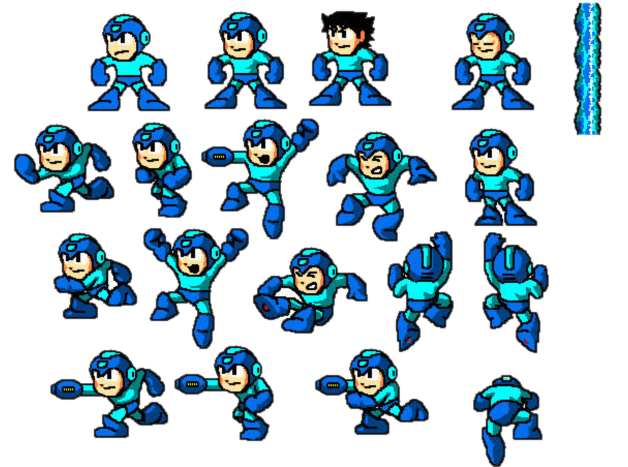
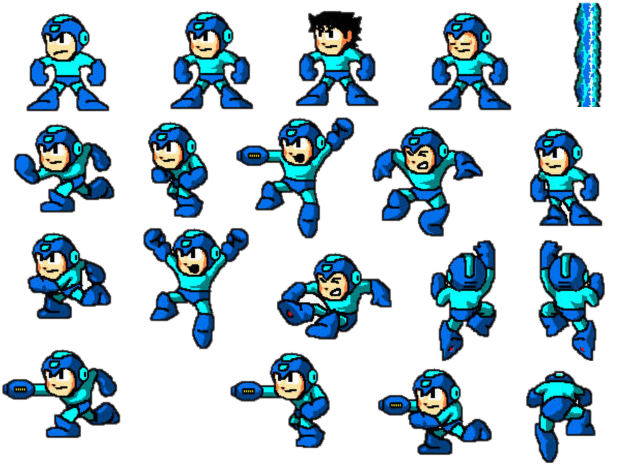
Versão aprimorada Grok Ajustando bug

diff --git a/Animation.html b/Animation.html
@@ -53,38 +53,40 @@
     
     <div class="controls">
         <h3>Controles</h3>
-        <p><span class="key">←</span> <span class="key">→</span> Mover | <span class="key">J</span> Pular | <span class="key">S</span> Atirar
+        <p><span class="key">←</span> <span class="key">→</span> Mover | <span class="key">J</span> Pular | <span class="key">S</span> Atirar</p>
     </div>
-    
     <script>
         const canvas = document.getElementById('gameCanvas');
         const ctx = canvas.getContext('2d');
-        
-        /* Definição dos estados do jogo*/
+
+        // Definição dos estados do jogo
         const VM_STANDBY = 0;
         const VM_WALK = 1;
         const VM_SHOOT = 2;
         const VM_JUMP = 3;
-        
-        /* Inicializações*/
+
+        // Inicializações
         let facingDirection = 'right';
         let action = VM_STANDBY;
         let actionTime = 0;
-        let screenPosition = 128;
+        let screenPosition = 0;
         let keyState = {};
         let isJumping = false;
         let gravity = 0.5;
         let jumpVelocity = -10;
         let currentJumpVelocity = 0;
-        let groundLevel = canvas.height - 160;
+        let groundLevel = canvas.height - 80;
         let personY = groundLevel;
-        let personHeight = 160;
+        let personHeight = 80;
         let lastFrameTime = performance.now();
         let deltaTime = 0;
-        
-        /* Sistema de projéteis */
+        let frameIndex = 0;
+        let frameTime = 0;
+        const frameDuration = 100; // Duração de cada frame em ms
+
+        // Sistema de projéteis
         const projectiles = [];
-        
+
         class Projectile {
             constructor(x, y, direction) {
                 this.x = x;
@@ -102,8 +104,6 @@
                 } else {
                     this.x -= this.speed * (dt / 16);
                 }
-                
-                // Desativar projéteis que saem da tela
                 if (this.x < 0 || this.x > canvas.width) {
                     this.active = false;
                 }
@@ -114,8 +114,6 @@
                 ctx.beginPath();
                 ctx.ellipse(this.x, this.y, this.width, this.height, 0, 0, Math.PI * 2);
                 ctx.fill();
-                
-                // Efeito de brilho
                 ctx.fillStyle = '#99ccff';
                 ctx.beginPath();
                 ctx.ellipse(this.x, this.y, this.width * 0.5, this.height * 0.5, 0, 0, Math.PI * 2);
@@ -123,36 +121,60 @@
             }
         }
 
-        /* Objeto para imagens*/
+        // Objeto para imagens
         const images = {
-            person_stopped_right: new Image(),
-            person_stopped_left: new Image(),
-            person_running_left: new Image(),
-            person_running_right: new Image(),
-            person_shoot_left: new Image(),
-            person_shoot_right: new Image(),
-            person_jump_left: new Image(),
-            person_jump_right: new Image(),
             floor: new Image(),
             ceiling: new Image(),
             pillar: new Image(),
-            forest: new Image()
+            forest: new Image(),
+            personSpriteSheet: new Image()
         };
 
-        /* Carregando imagens*/
-        images.person_stopped_right.src = 'images/stop_right.png';
-        images.person_stopped_left.src = 'images/stop_left.png';
-        images.person_running_left.src = 'images/walk_left.png';
-        images.person_running_right.src = 'images/walk_right.png';
-        images.person_shoot_left.src = 'images/shoot_mirror.png';
-        images.person_shoot_right.src = 'images/shoot.png';
-        images.person_jump_left.src = 'images/jump_mirror.png';
-        images.person_jump_right.src = 'images/jump.png';
+        // Configuração da spritesheet
+        const larguraDoFrame = 157;
+        const alturaDoFrame = 467 / 4;
+        const spriteFrames = {
+            standby: [0, 1, 2, 3],
+            walk: [4, 5, 6, 7],
+            shoot: [8, 9, 10, 11],
+            jump: [12, 13, 14, 15]
+        };
+
+        function getPersonSprite(frameIndex) {
+            const canvas = document.createElement('canvas');
+            const ctx = canvas.getContext('2d');
+            canvas.width = larguraDoFrame;
+            canvas.height = alturaDoFrame;
+
+            const numColunas = 4;
+            const linha = Math.floor(frameIndex / numColunas);
+            const coluna = frameIndex % numColunas;
+            const spriteX = coluna * larguraDoFrame;
+            const spriteY = linha * alturaDoFrame;
+
+            ctx.drawImage(
+                images.personSpriteSheet,
+                spriteX,
+                spriteY,
+                larguraDoFrame,
+                alturaDoFrame,
+                0,
+                0,
+                larguraDoFrame,
+                alturaDoFrame
+            );
+
+            return canvas;
+        }
+
+        // Carregando as imagens
+        images.personSpriteSheet.src = 'images/all.png';
         images.floor.src = 'images/chao.png';
         images.ceiling.src = 'images/teto.png';
         images.pillar.src = 'images/pilar.png';
         images.forest.src = 'images/floresta.png';
 
+        // Controles
         window.addEventListener('keydown', (e) => {
             keyState[e.key] = true;
         });
@@ -163,18 +185,11 @@
 
         function drawBackground() {
             const lFator = 32;
-
-            /* Desenhar floresta (ao fundo)*/
-            ctx.drawImage(images.forest, 0 - screenPosition * 0.5, 0, canvas.width+40, canvas.height);
-
-            /* Teto e chão*/
+            ctx.drawImage(images.forest, 0 - screenPosition * 0.5, 0, canvas.width + 40, canvas.height);
             for (let i = 0; i < 32; i++) {
                 ctx.drawImage(images.ceiling, (lFator * i) - screenPosition, -2, 32, 32);
-                ctx.drawImage(images.ceiling, (lFator * i + lFator) - screenPosition, -2, 32, 32);
                 ctx.drawImage(images.floor, (lFator * i) - screenPosition, 232, 32, 32);
             }
-
-            /* Desenhar pilares*/
             const pilarFator = 125;
             for (let i = 0; i < 10; i++) {
                 ctx.drawImage(images.pillar, (pilarFator * i) - screenPosition, 34, 21, 65);
@@ -184,63 +199,52 @@
         }
 
         function drawPerson() {
-            const personX = canvas.width / 2 - 78;
-            /* Desenha o personagem baseado nas ações atuais*/
+            const personX = canvas.width / 2 - 39;
+            let frames;
             switch (action) {
                 case VM_STANDBY:
-                    if (facingDirection === 'left') {
-                        ctx.drawImage(images.person_stopped_left, personX, personY, 78, 160);
-                    } else {
-                        ctx.drawImage(images.person_stopped_right, personX, personY, 78, 160);
-                    }
+                    frames = spriteFrames.standby;
                     break;
                 case VM_WALK:
-                    if (facingDirection === 'left') {
-                        ctx.drawImage(images.person_running_left, personX, personY, 78, 160);
-                    } else {
-                        ctx.drawImage(images.person_running_right, personX, personY, 78, 160);
-                    }
+                    frames = spriteFrames.walk;
                     break;
                 case VM_SHOOT:
-                    if (facingDirection === 'left') {
-                        ctx.drawImage(images.person_shoot_left, personX, personY, 78, 160);
-                    } else {
-                        ctx.drawImage(images.person_shoot_right, personX, personY, 78, 160);
-                    }
+                    frames = spriteFrames.shoot;
                     break;
                 case VM_JUMP:
-                    if (facingDirection === 'left') {
-                        ctx.drawImage(images.person_jump_left, personX, personY, 78, 160);
-                    } else {
-                        ctx.drawImage(images.person_jump_right, personX, personY, 78, 160);
-                    }
+                    frames = spriteFrames.jump;
                     break;
+            }
+            const currentFrame = frames[Math.floor(frameIndex) % frames.length];
+            const sprite = getPersonSprite(currentFrame);
+            if (facingDirection === 'left') {
+                ctx.scale(-1, 1);
+                ctx.drawImage(sprite, -personX - 78, personY, 78, 80);
+                ctx.scale(-1, 1);
+            } else {
+                ctx.drawImage(sprite, personX, personY, 78, 80);
             }
         }
 
         function drawStatusLabel() {
-            /* Desenha informações de status*/
             ctx.fillStyle = '#000000';
             ctx.fillText("Ação: " + (action === VM_STANDBY ? "Parado" :
                 action === VM_WALK ? "Andando" :
                 action === VM_SHOOT ? "Atirando" :
                 "Pulando"), 10, 64);
-            ctx.fillText("Tempo da ação: " + actionTime, 10, 80);
+            ctx.fillText("Tempo da ação: " + Math.round(actionTime), 10, 80);
             ctx.fillText("Posição da tela: " + Math.round(screenPosition), 10, 96);
-            ctx.fillText("s = atirar; j = pular; setas = movimentar ", 10, 112);
+            ctx.fillText("s = atirar; j = pular; setas = movimentar", 10, 112);
         }
 
         function drawAllSprites() {
             ctx.clearRect(0, 0, canvas.width, canvas.height);
             drawBackground();
-            
-            // Desenhar projéteis ativos
             projectiles.forEach(projectile => {
                 if (projectile.active) {
                     projectile.draw();
                 }
             });
-            
             drawPerson();
             drawStatusLabel();
         }
@@ -249,26 +253,16 @@
             const personX = canvas.width / 2;
             const personWidth = 78;
             const projectileY = personY + personHeight / 2;
-            
-            let projectileX;
-            if (facingDirection === 'right') {
-                projectileX = personX + personWidth / 2;
-            } else {
-                projectileX = personX - personWidth / 2;
-            }
-            
+            let projectileX = facingDirection === 'right' ? personX + personWidth / 2 : personX - personWidth / 2;
             projectiles.push(new Projectile(projectileX, projectileY, facingDirection));
         }
 
         function updateProjectiles(dt) {
-            // Atualizar posição dos projéteis
             projectiles.forEach(projectile => {
                 if (projectile.active) {
                     projectile.update(dt);
                 }
             });
-            
-            // Remover projéteis inativos
             for (let i = projectiles.length - 1; i >= 0; i--) {
                 if (!projectiles[i].active) {
                     projectiles.splice(i, 1);
@@ -280,14 +274,10 @@
             if (isJumping) {
                 personY += currentJumpVelocity * (dt / 16);
                 currentJumpVelocity += gravity * (dt / 16);
-                
-                // Verificar se o personagem chegou ao chão
                 if (personY >= groundLevel) {
                     personY = groundLevel;
                     isJumping = false;
                     currentJumpVelocity = 0;
-                    
-                    // Se estava pulando, voltar para o estado parado
                     if (action === VM_JUMP) {
                         action = VM_STANDBY;
                     }
@@ -296,23 +286,23 @@
         }
 
         function update(timestamp) {
-            // Calcular deltaTime para animações consistentes
             deltaTime = timestamp - lastFrameTime;
             lastFrameTime = timestamp;
-            
-            // Limitar deltaTime para evitar saltos grandes em caso de lag
             if (deltaTime > 100) deltaTime = 100;
-            
-            // Aplicar gravidade
+
+            // Atualizar animação
+            frameTime += deltaTime;
+            if (frameTime >= frameDuration) {
+                frameIndex = (frameIndex + 1) % 4;
+                frameTime = 0;
+            }
+
             applyGravity(deltaTime);
-            
-            // Atualizar projéteis
             updateProjectiles(deltaTime);
 
             switch (action) {
                 case VM_STANDBY:
                     actionTime = 0;
-                    /* Verifique qual tecla está pressionada para mudar a ação*/
                     if (keyState['ArrowLeft']) {
                         action = VM_WALK;
                         facingDirection = 'left';
@@ -330,15 +320,15 @@
                     break;
                 case VM_WALK:
                     actionTime += deltaTime;
-                    /* Movimentação*/
                     if (keyState['ArrowRight']) {
-                        screenPosition += (4 + (deltaTime / 15)); // Aumentei a constante e ajustei o divisor do deltaTime
+                        screenPosition += 4 * (deltaTime / 16);
+                        facingDirection = 'right';
                     } else if (keyState['ArrowLeft']) {
-                        screenPosition -= (4 + (deltaTime / 15)); // Aumentei a constante e ajustei o divisor do deltaTime
+                        screenPosition -= 4 * (deltaTime / 16);
+                        facingDirection = 'left';
                     } else {
                         action = VM_STANDBY;
                     }
-                    /* Verificar outras ações durante a caminhada */
                     if (keyState['s']) {
                         action = VM_SHOOT;
                         createProjectile();
@@ -347,14 +337,8 @@
                         isJumping = true;
                         currentJumpVelocity = jumpVelocity;
                     }
-                    /* Limitações de rolagem*/
-                    if (screenPosition >= 128) {
-                        screenPosition = 0;
-                    } else if (screenPosition <= 0) {
-                        screenPosition = 128;
-                    }
                     break;
-               case VM_SHOOT:
+                case VM_SHOOT:
                     actionTime += deltaTime;
                     if (actionTime >= 300) {
                         action = VM_STANDBY;
@@ -362,27 +346,28 @@
                     break;
                 case VM_JUMP:
                     actionTime += deltaTime;
-                    // Permitir movimento horizontal durante o pulo
                     if (keyState['ArrowRight']) {
-                        screenPosition += (0.1 + (deltaTime / 30));
+                        screenPosition += 4 * (deltaTime / 16);
+                        facingDirection = 'right';
                     } else if (keyState['ArrowLeft']) {
-                        screenPosition -= (0.1 + (deltaTime / 30));
+                        screenPosition -= 4 * (deltaTime / 16);
+                        facingDirection = 'left';
                     }
-                    // Permitir atirar durante o pulo
                     if (keyState['s'] && actionTime % 300 < 16) {
                         createProjectile();
                     }
                     break;
             }
+
             drawAllSprites();
             requestAnimationFrame(update);
         }
 
         function init() {
             ctx.font = "16px Arial";
-            screenPosition = 128;
-            lastFrameTime = performance.now();
-            update(lastFrameTime);
+            images.personSpriteSheet.onload = () => {
+                update(performance.now());
+            };
         }
         init();
     </script>
